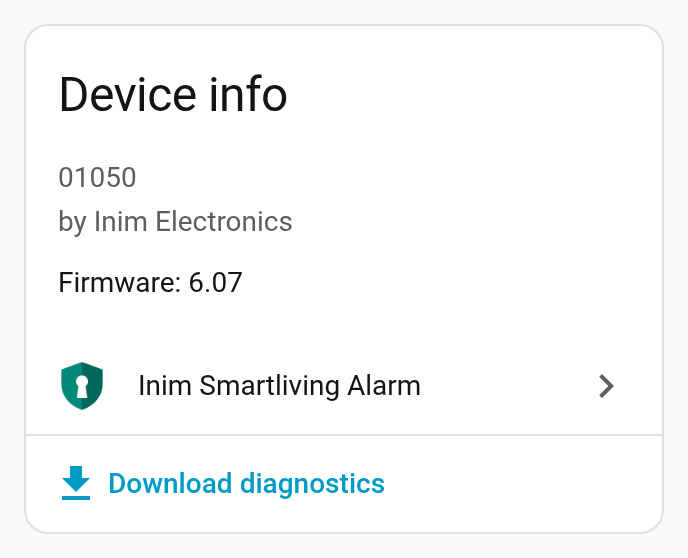
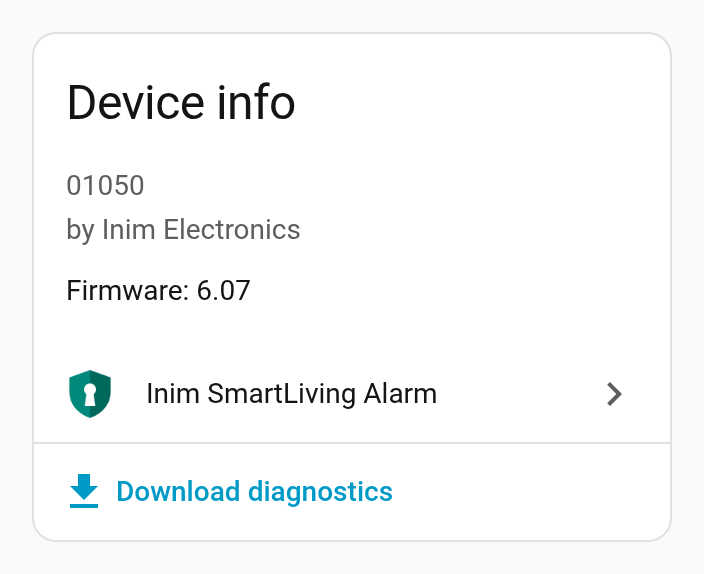
docs: upgrade pointer for 0.4 users, wording fixes, SmartLiving name (#104)
The README and the site's home page now send 0.4 users to the upgrade
notes too, and tell them to take a backup first: going back to 0.4
needs it. The README gets an "Upgrading from 0.4" section next to the
0.3.x one.

The integration is now shown as "Inim SmartLiving Alarm", as the
documentation already wrote it: the manifest and hacs.json names, the
default panel name of a new setup ("Inim SmartLiving") and the
installation steps. Only the shown name changes: the domain, unique
IDs, entity IDs and stored entries stay as they are, and existing
panels keep the name they were given.

Docs fixes: the dashboard card example no longer prints "None" for
events without areas; the event log's Location N and None values; the
active scenario's Scenario N state; the scenario failure event's fields
for the Activate scenario action and a scenario button, and the panel
reasons reported as zones_blocked or unknown_zones_error; the slow
polling interval is an option (30 seconds by default); the diagnostic
binary sensors; thermostat changes among the commands that fail with a
message; "memory layout" for the experimental models.

The polling options screenshot shows the Thermostats field; the device
page and Download diagnostics screenshots show the new name. A code
comment about the event log's size is brought up to date.

diff --git a/custom_components/inim_smartliving_alarm/const.py b/custom_components/inim_smartliving_alarm/const.py
@@ -81,7 +81,7 @@ DEFAULT_POLL_INTERVAL_THERMOSTATS = 60.0
 DEFAULT_SLOW_POLLING_INTERVAL = 30.0  # seconds
 DEFAULT_SLOW_POLLING_DURATION = 60.0  # minutes
 DEFAULT_PORT = 5004  # SmartLAN/SI default; also proposed for SmartLAN/G (no default)
-DEFAULT_PANEL_NAME = "Inim Smartliving"  # Default if user doesn't provide one
+DEFAULT_PANEL_NAME = "Inim SmartLiving"  # Default if user doesn't provide one
 
 # Counts an entry migrated from the limits uses when none was stored:
 # everything
@@ -93,7 +93,10 @@ DEFAULT_LIMIT_SCENARIOS = 30
 
 # Default limits for imported events
 DEFAULT_EVENT_LOG_SIZE = 50  # Default number of events to store
-SYSTEM_MAX_EVENT_LOG_SIZE = 100  # System limit of events to store, increasing this may cause exceeding the maximum size of 16384 bytes for the sensor attribute
+# The most events the event log keeps: the cap keeps the sensor's state
+# attributes a reasonable size (100 long events are about 56 KB). The list
+# is not recorded.
+SYSTEM_MAX_EVENT_LOG_SIZE = 100
 
 # Data keys for hass.data[DOMAIN][entry.entry_id]
 DATA_PANEL = "panel"  # the entry's SmartLivingPanel

diff --git a/tests/test_readme.py b/tests/test_readme.py
@@ -81,6 +81,7 @@ def test_the_rest_stays() -> None:
     for heading in (
         "Installation\n------------",
         "Documentation\n-------------",
+        "Upgrading from 0.4\n------------------",
         "Upgrading from 0.3.x\n--------------------",
         "Sharing a system report\n-----------------------",
         "Troubleshooting\n---------------",

diff --git a/docs/upgrading.md b/docs/upgrading.md
@@ -39,7 +39,7 @@ This version keeps the panel configuration in a new format. Your entity IDs and 
     *   **Entity names are translated and read the same way everywhere**: *Zone 12 (Window)*, *Zone 12 tamper (Window)*, *Area 3 alarm (Kitchen)*, *Activate scenario 2 (Night)*, *Event log*, shown after the panel's name and in your Home Assistant language. The zone switch is now *Zone N included*. An item without a name on the panel shows its number alone (*Zone 5*, not *Zone 5 (Zone 5)*). Entity IDs don't change, so automations and dashboards keep working; cards that show an entity's name show the new one, and a name you set yourself is kept.
     *   ***Firmware version* and *System type*** move to the *Diagnostic* section of the device page.
     *   **New installations no longer get the panel's name twice in entity IDs** (for example `switch.home_area_3` rather than `switch.home_home_area_3`). Entity IDs of an existing installation stay as they are; to remove a doubled name, rename the entity ID in the entity's settings (**Settings** → **Devices & services** → **Entities**, the entity, then the gear icon), and update the automations and dashboards that use it.
-    *   **The panel is read in parts, each at its own interval** ([Polling](options.md#polling)): zones and outputs every second, areas and the active scenario every 2 seconds, the event log every 10 seconds, the zone bypass and dimmer levels every 30 seconds, the panel state every 60 seconds, and every part at once after a command sent from Home Assistant. The old **Polling Interval** option is dropped and the new defaults apply, whatever it was set to; set the intervals in **Settings** → **Devices & services** → **Inim SmartLiving Alarm**, the gear icon on your panel's row, **Polling**. While it reads the panel at these intervals, Home Assistant keeps its connection to the board open; the SmartLAN/SI board accepts one local client at a time, so other apps on your network cannot connect to it meanwhile. To let the Inim app or the installer software connect, turn on the new **Slow polling mode** switch on the device page: Home Assistant then reads the whole panel every 30 seconds and closes its connection after each read, as earlier versions did, and the switch turns itself off after 60 minutes (see [Slow polling mode](options.md#slow-polling-mode)).
+    *   **The panel is read in parts, each at its own interval** ([Polling](options.md#polling)): zones and outputs every second, areas and the active scenario every 2 seconds, the event log every 10 seconds, the zone bypass and dimmer levels every 30 seconds, the panel state every 60 seconds, and every part at once after a command sent from Home Assistant. The old **Polling Interval** option is dropped and the new defaults apply, whatever it was set to; set the intervals in **Settings** → **Devices & services** → **Inim SmartLiving Alarm**, the gear icon on your panel's row, **Polling**. While it reads the panel at these intervals, Home Assistant keeps its connection to the board open; the SmartLAN/SI board accepts one local client at a time, so other apps on your network cannot connect to it meanwhile. To let the Inim app or the installer software connect, turn on the new **Slow polling mode** switch on the device page: Home Assistant then reads the whole panel every 30 seconds by default (**Reading interval in slow polling mode**, in **Polling**) and closes its connection after each read, as earlier versions did, and the switch turns itself off after 60 minutes (see [Slow polling mode](options.md#slow-polling-mode)).
     *   **System reports read the SmartLAN/SI board's details from the board itself** (its network settings and firmware), so they are included when Home Assistant is on another subnet too. A **Full confidential** report also shows the panel's installer code (see [Finding the installer code](system-report.md#finding-the-installer-code)), and the board's dynamic-DNS user name now shows only at *Full confidential*, like its passwords.
     *   **Keypad thermostats are new** ([Thermostats](entities.md#thermostats)): each keypad that reports a room temperature gets a climate entity (off, heat or cool; the panel's manual, daily program, weekly program and antifreeze modes as presets) and a temperature sensor. At the first start, once the integration is running, it checks which keypads report a temperature, ticks their thermostats in the options and adds their entities. A keypad whose thermostat you don't use gets one too: untick it in the options to remove its entities. Changes from Home Assistant set only the mode, the season and the manual setpoint; the programs are not changed.
     *   **The event log names every event** ([Sensors](entities.md#sensors)). Before, only the most common ones had a description and the others showed as *Unknown Action*. `description` now uses the names the panel gives its events, in English: for example *Area armed in away mode* (was *Area(s) Armed*), *Area disarmed* (*Area(s) Disarmed*), *Zone bypassed (ended)* (*End of Zone Excluded*), *Scenario activated* (*Scenario Activated*). New keys tell the event's key (`event`, the same in every language), its code, whether it ended, how it happened (`via`), and what it is about (a keypad, a timer, an expander…); `description_local` gives the description in Home Assistant's language. An area armed by a command zone or a timer now says so, where before the zone's number was shown as a user code or the timer as a reader. When an event has no user code, key, keypad or reader, `authorized_by`, `device`, `authorized_id` and `device_id` are left out: before, they read `-` or `ff`. The `event_log` list itself is no longer kept in Home Assistant's history.

diff --git a/docs/entities.md b/docs/entities.md
@@ -13,7 +13,7 @@ Your panel appears in Home Assistant as one device, named as you chose at setup.
 | [Each output](#outputs) | a switch, or a light for dimmers | Switch or dim the output |
 | [Each keypad thermostat](#thermostats) | a climate entity, a temperature sensor | Set the temperature, heat or cool, the program; see the room temperature |
 | [The panel's state](#sensors) | sensors | The event log, the active scenario, firmware and model |
-| [Diagnostics](#diagnostic-and-configuration-entities) | sensors, a select, a button, a switch | The user code, the devices found, programming mode, system reports, re-reading the configuration, slow polling mode |
+| [Diagnostics](#diagnostic-and-configuration-entities) | sensors, binary sensors, a select, a button, a switch | The user code, the devices found, programming mode, system reports, re-reading the configuration, slow polling mode |
 
 For example, the tile cards of an area: its arming mode, its switch and its alarm memory.
 
@@ -203,8 +203,8 @@ The events and their keys are in the sensor's attributes: open the sensor, then 
     | `ended` | `true` when the panel logs the end of something (an alarm, a bypass, a fault); `false` when it starts or happens |
     | `via` | how it happened, for the events that tell: `keypad_code`, `reader_key`, `remote` (the app, the cloud, Home Assistant or the installer software), `command_zone`, `patrol_time`, `timer`, `keypad_shortcut`, `telephone`, `user_code` (a zone bypassed by a user), `automatic` (a zone bypassed by the panel) |
     | `authorized_by` | the user code or key that did it, by name |
-    | `device` | the keypad or reader, by name; `Remote` for commands from the app, the cloud, Home Assistant or the installer software; `From telephone` |
-    | `affected_areas` | the areas, by name |
+    | `device` | the keypad or reader, by name; `Remote` for commands from the app, the cloud, Home Assistant or the installer software; `From telephone`; `Location N` when the panel logs a place this event does not use |
+    | `affected_areas` | the areas, by name; `None` when no area is concerned |
     | `zone` | the zone, for zone events |
     | `scenario` | the scenario, for scenario events |
     | `keypad`, `reader`, `expander`, `siren`, `timer` | the device the event is about (a tamper, a loss, a timer), by name |
@@ -220,7 +220,7 @@ The events and their keys are in the sensor's attributes: open the sensor, then 
 
 ??? note "The active scenario in detail"
 
-    The state is the active scenario's name followed by its index (0-based). It is `No scenario matches` when the state of the areas matches no scenario, `Unknown Scenario (Index n)` for an index without a scenario name, and `Unknown (No data)` before the panel has been read.
+    The state is the active scenario's name followed by its index (0-based). It is `No scenario matches` when the state of the areas matches no scenario, `Scenario N (Index n)` for a scenario without a name, `Unknown Scenario (Index n)` for an index the panel does not have, and `Unknown (No data)` before the panel has been read.
 
     | Attribute | Values |
     |---|---|
@@ -241,7 +241,7 @@ These are shown in the *Diagnostic* and *Configuration* sections of the device p
 | `binary_sensor.…_programming_mode` | Programming mode | on while the panel is in programming mode |
 | `binary_sensor.…_refuses_arming_with_zones_not_ready` | Refuses arming with zones not ready | on when the installer set the panel to refuse arming with zones not ready |
 | `select.…_diagnostics_level` | Diagnostics level | Redacted, Full, Full confidential; disabled by default |
-| `switch.…_slow_polling_mode` | Slow polling mode | on while the panel is read every 30 seconds, so that other apps can connect to the board; SmartLAN/SI only (see [Slow polling mode](options.md#slow-polling-mode)) |
+| `switch.…_slow_polling_mode` | Slow polling mode | on while the panel is read every 30 seconds by default (**Reading interval in slow polling mode**), so that other apps can connect to the board; SmartLAN/SI only (see [Slow polling mode](options.md#slow-polling-mode)) |
 
 ??? note "Details and attributes"
 

diff --git a/docs/actions-events.md b/docs/actions-events.md
@@ -71,7 +71,7 @@ title: Alarm events
 content: >-
   {% for e in (state_attr('sensor.home_event_log', 'event_log') or [])[:10] %}
   - {{ as_timestamp(e.timestamp) | timestamp_custom('%d/%m %H:%M') }}
-  · {{ e.description_local }}{% if e.authorized_by %} · {{ e.authorized_by }}{% endif %}{% if e.affected_areas %} · {{ e.affected_areas }}{% endif %}
+  · {{ e.description_local }}{% if e.authorized_by %} · {{ e.authorized_by }}{% endif %}{% if e.affected_areas and e.affected_areas != 'None' %} · {{ e.affected_areas }}{% endif %}
   {% endfor %}
 ```
 
@@ -171,13 +171,13 @@ triggers:
 
 | Field | Values |
 |---|---|
-| `entity_unique_id` | the unique ID of the entity that ran it |
-| `entity_name` | the name of that entity |
-| `action` | what was asked, in English, for example `arm away` or `activate scenario 'Night'` |
+| `entity_unique_id` | the unique ID of the entity that ran it, or `<entry id>_activate_scenario_action` for the **Activate scenario** action |
+| `entity_name` | the name of that entity, or the panel's entry title for the action |
+| `action` | what was asked, in English, for example `arm away`, `activate scenario 'Night'` (the action) or `activate scenario 'Night' (index 1)` (a scenario button) |
 | `scenario_index` | the scenario number minus 1 |
 | `scenario_name` | the scenario's name |
-| `reason` | `zones_blocked`, `no_areas_identified`, `unknown_zones_error`, `no_data_available`, `disarm_failed`, `panel_programming`, `command_failed`, `unknown`, or the reason the panel gave (see below) |
-| `panel_result` | the panel's reason when it refused the command, `unknown` for a reason the integration does not know, or `null` when the panel did not refuse it |
+| `reason` | `zones_blocked`, `no_areas_identified`, `unknown_zones_error`, `no_data_available`, `disarm_failed`, `panel_programming`, `command_failed`, `unknown`, or the reason the panel gave (see below), except `open_zones` and `refused`, which give `zones_blocked` or `unknown_zones_error` |
+| `panel_result` | the panel's reason when it refused the command (`open_zones` and `refused` included), `unknown` for a reason the integration does not know, or `null` when the panel did not refuse it |
 | `blocking_zones` | the zones that stopped it, each with `zone_id`, `zone_name`, `status` (`not_ready`, `alarmed`, `short` or `tamper`) and `areas` (by name) |
 | `message` | a description, always in English, whatever Home Assistant's language |
 

diff --git a/docs/troubleshooting.md b/docs/troubleshooting.md
@@ -18,7 +18,7 @@ Start with the table: find your problem, then follow the link for the details.
 
 ## When the panel refuses a command
 
-Arming, disarming, bypassing a zone, running a scenario, resetting the alarm memory and switching an output fail with a message when they are not carried out. The message says which of three things happened.
+Arming, disarming, bypassing a zone, running a scenario, resetting the alarm memory, switching an output and changing a thermostat fail with a message when they are not carried out. The message says which of three things happened.
 
 **1. The integration did not send the command.**
 
@@ -71,7 +71,7 @@ The setup says *"The SmartLAN/G board answered, but its reply was not in the exp
 
 The SmartLAN/SI board accepts only one local connection at a time. While Home Assistant reads the panel at the [Polling](options.md#polling) intervals, it keeps its connection to the board open, so the app cannot connect locally meanwhile. Remote access through Inim Cloud is not affected.
 
-Turn on **Slow polling mode** on the panel's device page (see [Slow polling mode](options.md#slow-polling-mode)). Home Assistant then reads the panel every 30 seconds and closes its connection after each read, so the app, or the installer software, can connect in between. While another app is connected, the entities are unavailable; while the installer software reads the panel's programming, that can last about a minute. If the installer software reports a connection error, try again: Home Assistant's read may have taken the board for a moment. The mode turns itself off after 60 minutes, unless you set it otherwise.
+Turn on **Slow polling mode** on the panel's device page (see [Slow polling mode](options.md#slow-polling-mode)). Home Assistant then reads the panel every 30 seconds by default (**Reading interval in slow polling mode**, in [Polling](options.md#polling)) and closes its connection after each read, so the app, or the installer software, can connect in between. While another app is connected, the entities are unavailable; while the installer software reads the panel's programming, that can last about a minute. If the installer software reports a connection error, try again: Home Assistant's read may have taken the board for a moment. The mode turns itself off after 60 minutes, unless you set it otherwise.
 
 ### Programming mode
 

diff --git a/README.md b/README.md
@@ -38,7 +38,7 @@ The integration is installed as a custom repository; it needs Home Assistant 202
 
 [![Open your Home Assistant instance and open this repository in the Marketplace.](https://my.home-assistant.io/badges/marketplace_repository.svg)](https://my.home-assistant.io/redirect/marketplace_repository/?owner=matteoraf&repository=ha-inim_smartliving_alarm_panel&category=integration)
 
-The button opens this repository in your Home Assistant: in the Marketplace on 2026.11 or later, in HACS on earlier versions (HACS must be installed). Download **Inim Smartliving Alarm** there and restart Home Assistant. Or add it yourself:
+The button opens this repository in your Home Assistant: in the Marketplace on 2026.11 or later, in HACS on earlier versions (HACS must be installed). Download **Inim SmartLiving Alarm** there and restart Home Assistant. Or add it yourself:
 
 **Home Assistant 2026.11 or later (Marketplace):**
 
@@ -46,14 +46,14 @@ The button opens this repository in your Home Assistant: in the Marketplace on 2
     
 2.  Add `https://github.com/matteoraf/ha-inim_smartliving_alarm_panel` as a custom repository of type **Integration**. Adding custom repositories needs the Marketplace's GitHub connection.
     
-3.  Open **Inim Smartliving Alarm** in the Marketplace, install it and restart Home Assistant.
+3.  Open **Inim SmartLiving Alarm** in the Marketplace, install it and restart Home Assistant.
     
 
 **Home Assistant 2026.1 to 2026.10 (HACS):**
 
 1.  In HACS, open the menu (⋮) -> **Custom repositories** and add the same URL with type **Integration**.
     
-2.  Search for **Inim Smartliving Alarm**, download it and restart Home Assistant.
+2.  Search for **Inim SmartLiving Alarm**, download it and restart Home Assistant.
     
 
 **Manual installation:**
@@ -86,6 +86,11 @@ Documentation
 *   [Upgrading](https://matteoraf.github.io/ha-inim_smartliving_alarm_panel/dev/upgrading/)
 
 *   [Known limitations](https://matteoraf.github.io/ha-inim_smartliving_alarm_panel/dev/limitations/)
+
+Upgrading from 0.4
+------------------
+
+Take a Home Assistant backup before you update: to go back to 0.4, you restore it. Then see [Upgrading](https://matteoraf.github.io/ha-inim_smartliving_alarm_panel/dev/upgrading/#from-04).
 
 Upgrading from 0.3.x
 --------------------

diff --git a/docs/installation.md b/docs/installation.md
@@ -25,7 +25,7 @@ Zone numbers above the number of terminals are the second zones of double termin
 
 ??? note "What experimental means, and other firmware versions"
 
-    *   **Experimental models** use the panel's memory map but have not been tested on a real panel yet; a warning in the log says so. Please report how it works for you.
+    *   **Experimental models** use their own memory layout but have not been tested on a real panel yet; a warning in the log says so. Please report how it works for you.
     *   **Firmware 6.x** is supported as in the table above.
     *   **Firmware 5.1x is supported experimentally, and with limits**, on all four models:
 
@@ -48,20 +48,20 @@ The integration is installed as a custom repository. Use the button to open it i
 
 [Open your Home Assistant instance and open this repository in the Marketplace.](https://my.home-assistant.io/redirect/marketplace_repository/?owner=matteoraf&repository=ha-inim_smartliving_alarm_panel&category=integration){ .md-button }
 
-The button opens the repository in the Marketplace on Home Assistant 2026.11 or later, and in HACS on earlier versions (HACS must be installed). Download **Inim Smartliving Alarm** there and restart Home Assistant.
+The button opens the repository in the Marketplace on Home Assistant 2026.11 or later, and in HACS on earlier versions (HACS must be installed). Download **Inim SmartLiving Alarm** there and restart Home Assistant.
 
 === "Marketplace (2026.11 or later)"
 
     1.  Go to **Settings** → **Marketplace**.
     2.  Add `https://github.com/matteoraf/ha-inim_smartliving_alarm_panel` as a custom repository of type **Integration**. Adding custom repositories needs the Marketplace's GitHub connection.
-    3.  Open **Inim Smartliving Alarm** in the Marketplace and install it.
+    3.  Open **Inim SmartLiving Alarm** in the Marketplace and install it.
     4.  Restart Home Assistant.
 
 === "HACS (2026.1 to 2026.10)"
 
     1.  In HACS, open the menu (⋮) → **Custom repositories**.
     2.  Add `https://github.com/matteoraf/ha-inim_smartliving_alarm_panel` with type **Integration**.
-    3.  Search for **Inim Smartliving Alarm** and download it.
+    3.  Search for **Inim SmartLiving Alarm** and download it.
     4.  Restart Home Assistant.
 
 === "Manual"

diff --git a/docs/limitations.md b/docs/limitations.md
@@ -4,7 +4,7 @@ Known limitations of this version, and what you can do about them:
 
 *   The integration polls the panel (the areas every 2 seconds by default, see [Polling](options.md#polling)), so an alarm that starts and ends between two reads never shows as *Triggered* on the alarm panel entity or on the *Area N alarm* sensor. The *alarm memory* sensors of the area and the zone stay on afterwards and show that it happened, until the memory is reset (see [Resetting the alarm memory](actions-events.md#resetting-the-alarm-memory)).
 
-*   While Home Assistant reads the panel at the [Polling](options.md#polling) intervals, it keeps its connection to the board open. The SmartLAN/SI board accepts one local client at a time, so other apps on your network (such as the Inim app or the installer software) cannot connect to it meanwhile. Turn on [slow polling mode](options.md#slow-polling-mode) to let them connect between Home Assistant's reads, which then come every 30 seconds. Remote access through Inim Cloud is not affected.
+*   While Home Assistant reads the panel at the [Polling](options.md#polling) intervals, it keeps its connection to the board open. The SmartLAN/SI board accepts one local client at a time, so other apps on your network (such as the Inim app or the installer software) cannot connect to it meanwhile. Turn on [slow polling mode](options.md#slow-polling-mode) to let them connect between Home Assistant's reads, which then come every 30 seconds by default (**Reading interval in slow polling mode**, in [Polling](options.md#polling)). Remote access through Inim Cloud is not affected.
 
 *   The event log names every event the panel logs, and who and what it refers to. Emergency keys and programmable events are shown by number (*Emergency key 1*, *Programmable event 2*): their names are not read from the panel.
 

diff --git a/docs/system-report.md b/docs/system-report.md
@@ -7,7 +7,7 @@ When you report a problem, a system report tells what the integration knows abou
 1.  Open your panel's device page: **Settings** → **Devices & services** → **Inim SmartLiving Alarm** → your panel.
 2.  Click **Download diagnostics** in the *Device info* card.
 
-    ![Download diagnostics on the device page](images/download-diagnostics.webp){ width="344" }
+    ![Download diagnostics on the device page](images/download-diagnostics.webp){ width="352" }
 
 3.  Wait for the file: it takes about 40 seconds on SmartLAN/SI. Commands are not held up meanwhile.
 4.  Attach the file to your GitHub issue. If GitHub refuses the file, zip it first.

diff --git a/docs/index.md b/docs/index.md
@@ -18,7 +18,7 @@ This integration connects Home Assistant to an Inim SmartLiving alarm panel on y
 3.  **[Add your panel](setup.md#adding-a-panel)**: enter the board's address and the PIN, then choose what to import.
 4.  **[Find your entities](entities.md)** on the panel's device page, and add them to a dashboard.
 
-Coming from version 0.3? Read [Upgrading](upgrading.md#from-03x) first. Something not working? See [Troubleshooting](troubleshooting.md).
+Coming from an earlier version? Read [Upgrading](upgrading.md) first, and take a backup before you update. Something not working? See [Troubleshooting](troubleshooting.md).
 
 ## What you get
 
